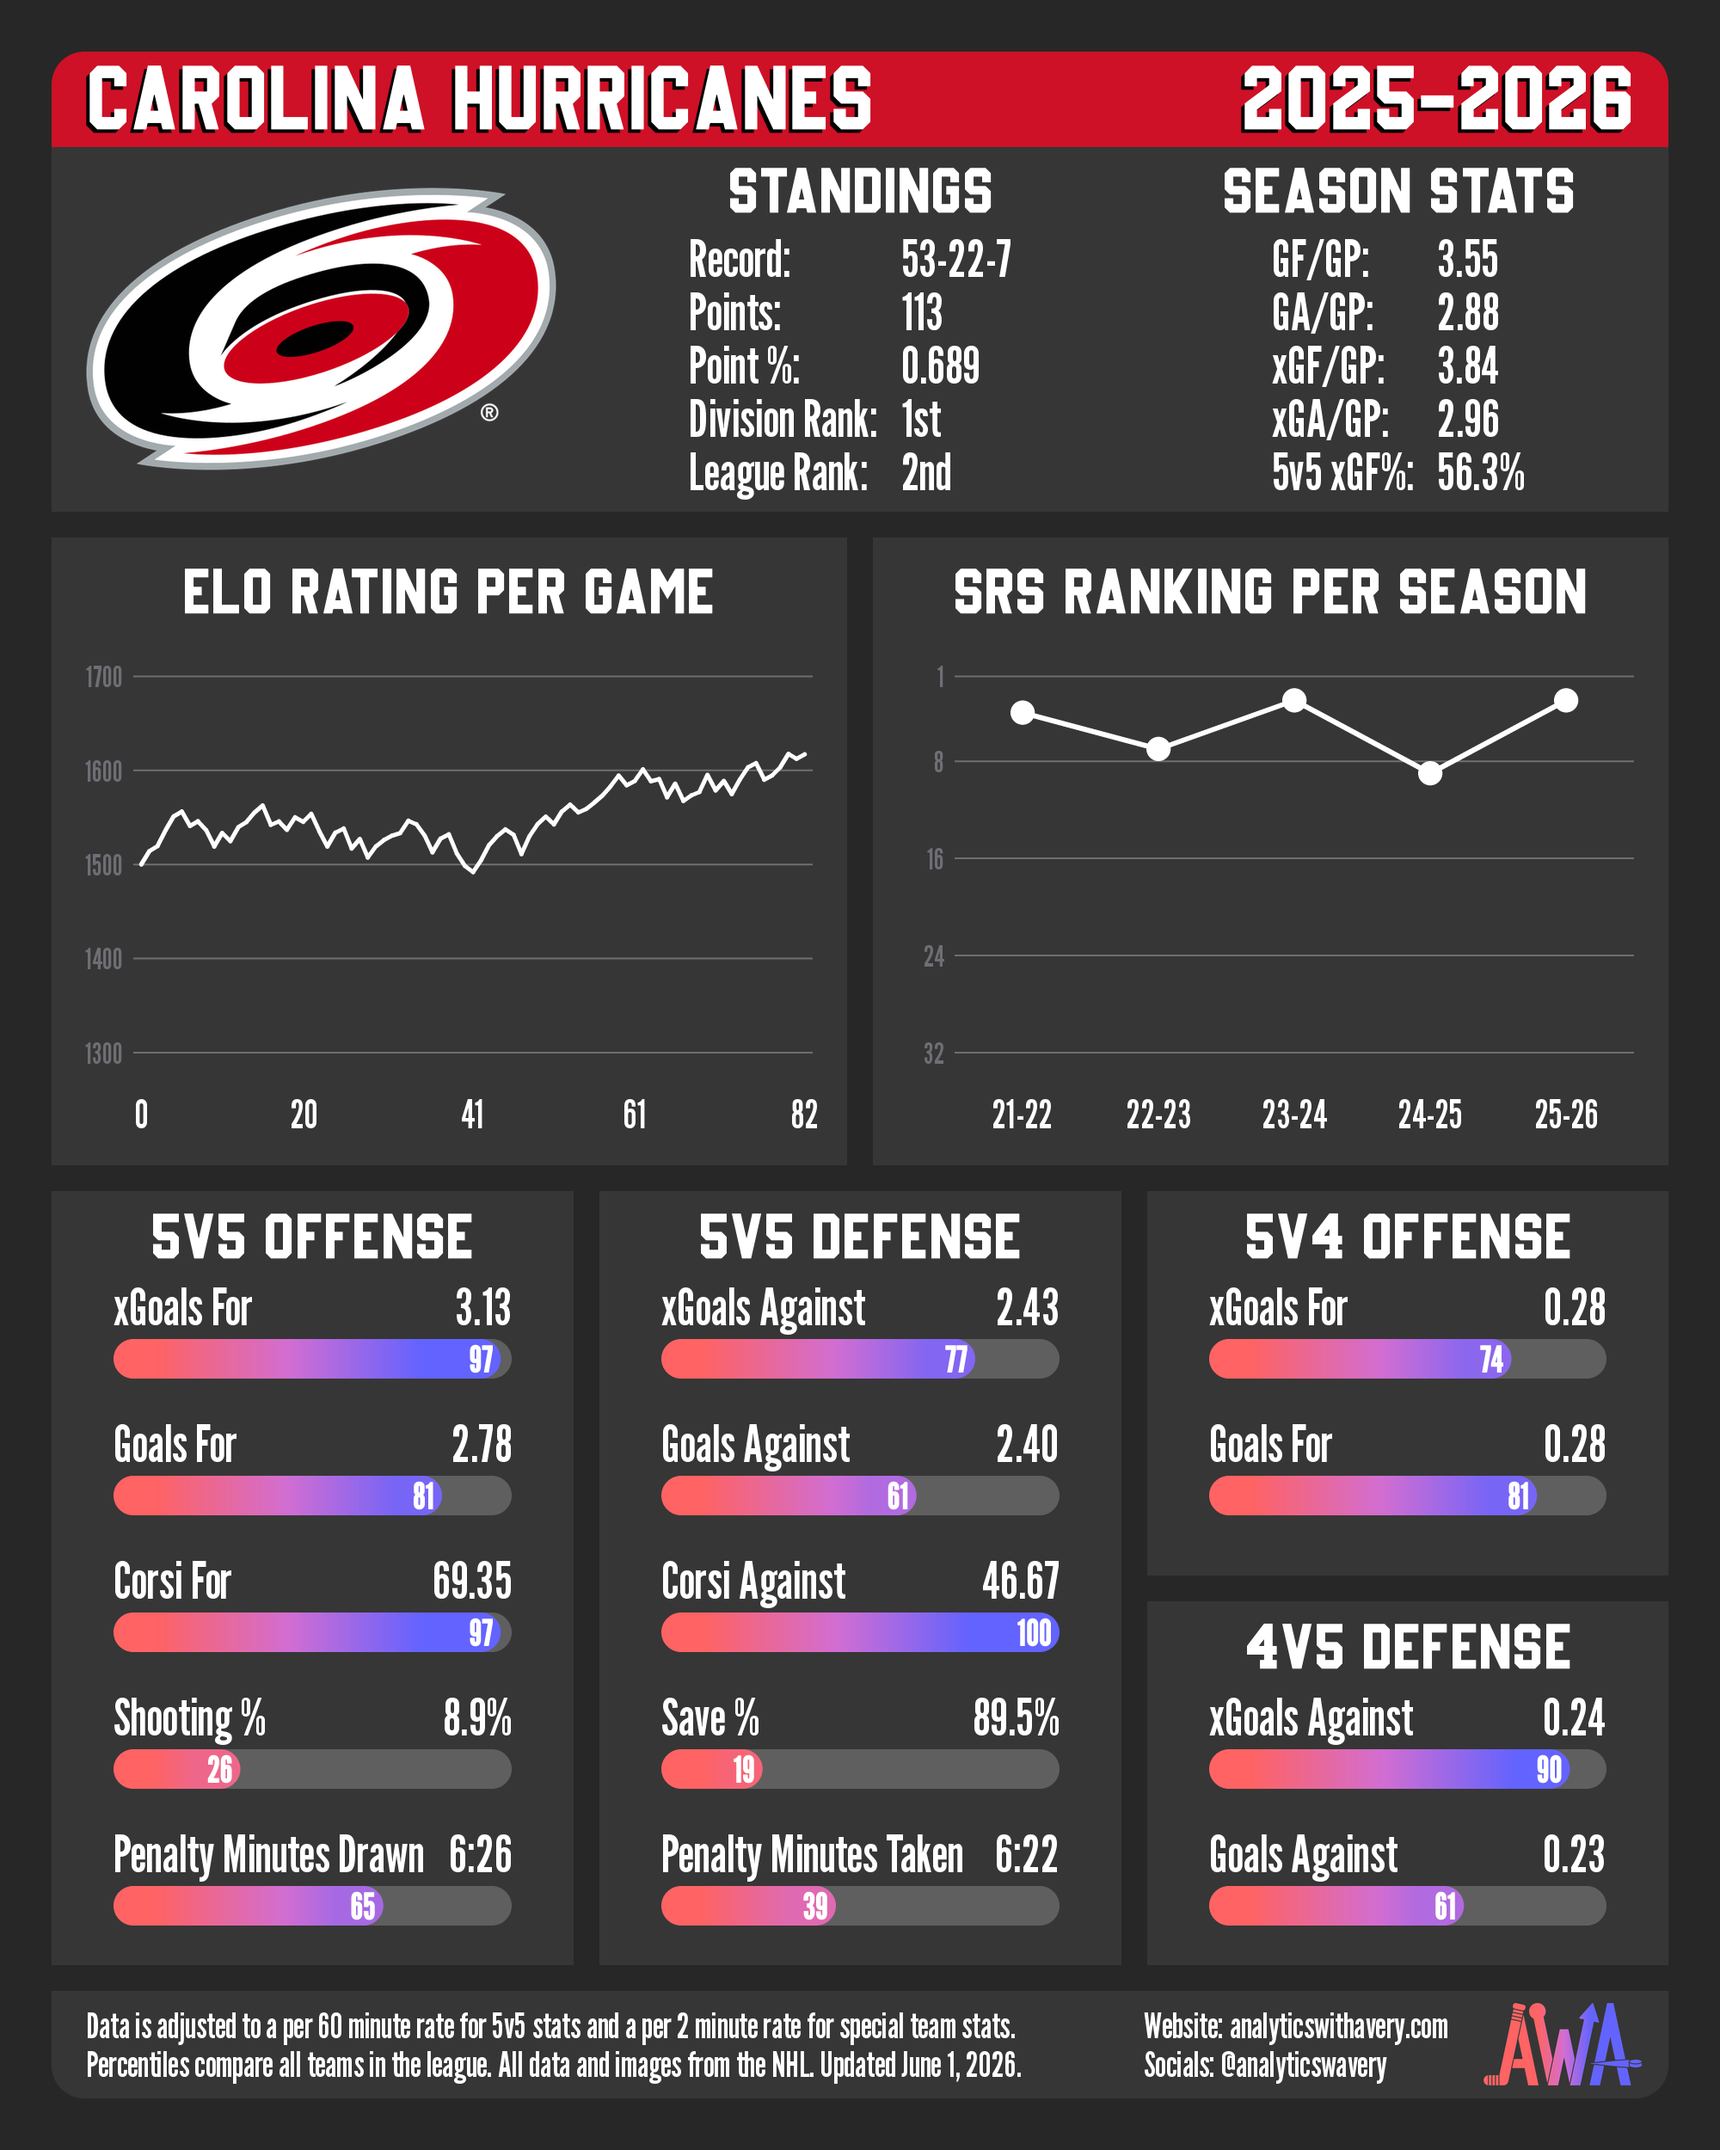
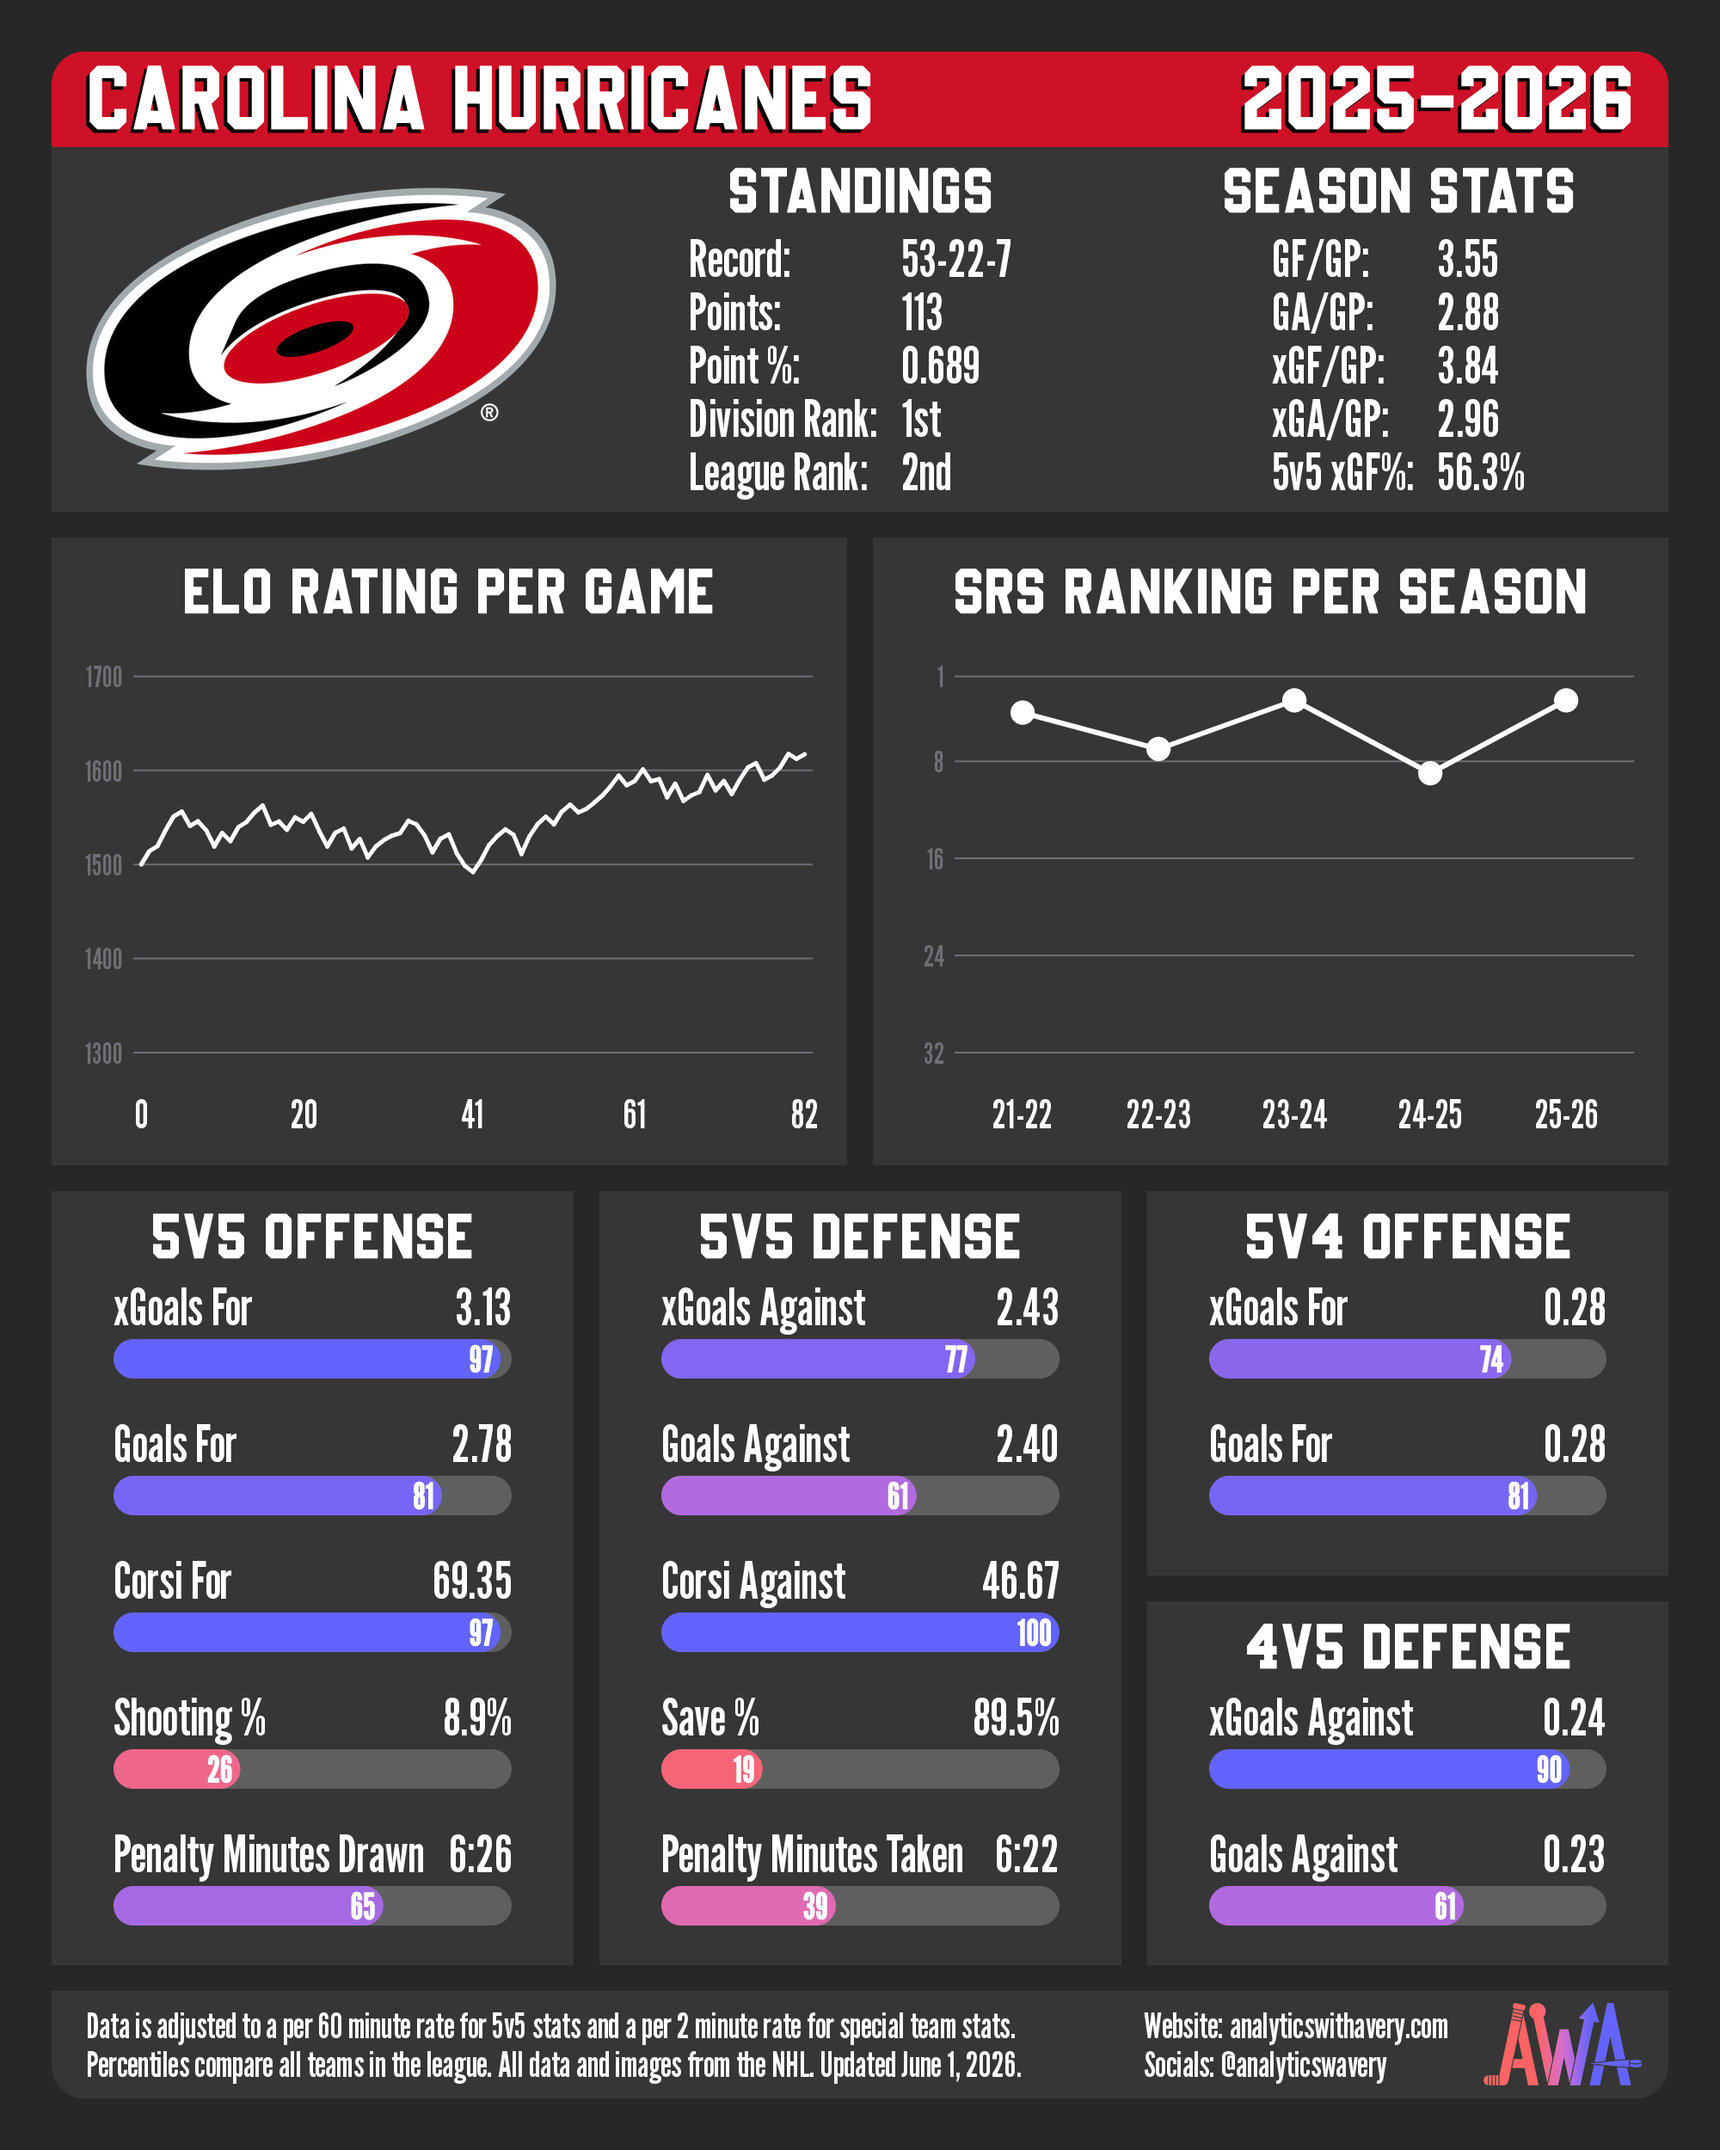
Update percentile cards

diff --git a/src/team_card_project/card_utils.py b/src/team_card_project/card_utils.py
@@ -240,11 +240,9 @@ def make_percentile_bar(
             ImageDraw.Draw(right_end).ellipse([(fill_width - height, 0), (fill_width - 1, height - 1)], fill=255)
             mask = ImageChops.multiply(left_end, right_end).crop((0, 0, fill_width, height))
 
-        # The gradient is stretched so it reaches the percentile's color a stretch before the end of the fill, which holds that color
-        hold = min(end_hold * height, 0.35 * fill_width)
-        fractions = np.minimum(np.arange(fill_width) / max(fill_width - hold, 1), 1) * fraction
-        fill = np.repeat(get_gradient_colors(fractions, solid_fraction).astype(np.uint8)[np.newaxis, :, :], height, axis=0)
-        bar.paste(Image.fromarray(fill, 'RGB').convert('RGBA'), (0, 0), mask)
+        # The fill is one solid color: the gradient's color at the percentile
+        color = tuple(int(channel) for channel in get_gradient_colors(np.array([fraction]), solid_fraction)[0])
+        bar.paste(Image.new('RGBA', (fill_width, height), color + (255,)), (0, 0), mask)
         label_xy, label_anchor = (fill_width - label_gap * height, height / 2), 'rm'
 
     if label:
